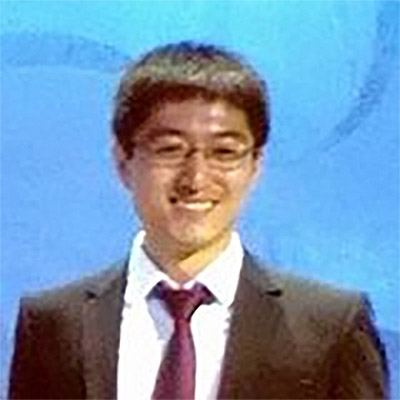
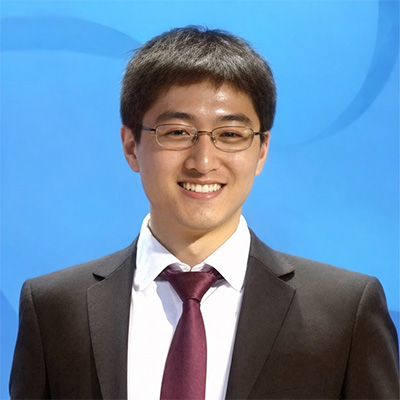
more updates

diff --git a/widgets/materials-block.js b/widgets/materials-block.js
@@ -1,0 +1,177 @@
+// materials-block.js — a slowly rotating block of nanocrystalline silicon
+// (the tricor look from silicon-order.js: toon-outlined atom spheres + translucent
+// tetrahedra). It blooms apart and grows when you hover, then settles back.
+// anywidget entry point. Data comes from nanocrystalline-si.json (data_url option).
+
+let THREE = null;
+const THREE_VERSION = "0.170.0";
+const THREE_MIRRORS = [
+  `https://cdn.jsdelivr.net/npm/three@${THREE_VERSION}/build/three.module.js`,
+  `https://unpkg.com/three@${THREE_VERSION}/build/three.module.js`,
+  `https://esm.sh/three@${THREE_VERSION}/build/three.module.js`,
+];
+async function ensureThree() {
+  if (THREE) return THREE;
+  if (globalThis.__three_module_cache) return (THREE = globalThis.__three_module_cache);
+  const errs = [];
+  for (const url of THREE_MIRRORS) {
+    try {
+      const resp = await fetch(url);
+      if (!resp.ok) throw new Error("HTTP " + resp.status);
+      const src = await resp.text();
+      const blobUrl = URL.createObjectURL(new Blob([src], { type: "application/javascript" }));
+      THREE = await import(blobUrl);
+      globalThis.__three_module_cache = THREE;
+      return THREE;
+    } catch (e) { errs.push(url.split("/")[2] + ": " + e.message); }
+  }
+  throw new Error("Could not load Three.js (" + errs.join("; ") + ")");
+}
+
+function detectDark() {
+  try {
+    const bg = getComputedStyle(document.body).backgroundColor;
+    const m = bg.match(/\d+/g);
+    if (m && m.length >= 3) return (0.299 * +m[0] + 0.587 * +m[1] + 0.114 * +m[2]) / 255 < 0.5;
+  } catch (e) {}
+  return window.matchMedia && window.matchMedia("(prefers-color-scheme: dark)").matches;
+}
+const THEME = {
+  light: { clear: 0xeef0ec, atom: [0.94, 0.78, 0.63], outline: 0x000000, tet: [0.35, 0.45, 0.95], tetOp: 0.4 },
+  dark:  { clear: 0x0c0f14, atom: [0.66, 0.34, 0.30], outline: 0x05070a, tet: [0.55, 0.10, 0.10], tetOp: 0.22 },
+};
+
+function render({ model, el }) {
+  const opt = (k, d) => { try { const v = model.get(k); return v == null ? d : v; } catch (e) { return d; } };
+  const dataUrl = opt("data_url", "https://cdn.jsdelivr.net/gh/ophusgroup/landing@main/widgets/nanocrystalline-si.json");
+  const aspect = opt("aspect", "4 / 3");
+  const id = "mb_" + Math.random().toString(36).slice(2, 7);
+
+  el.innerHTML = `
+    <div class="${id}-stage" style="position:relative; width:100%; aspect-ratio:${aspect};
+        overflow:visible; line-height:0; transition:transform .4s ease; transform-origin:center;">
+      <canvas style="display:block; width:100%; height:100%;"></canvas>
+    </div>`;
+  const stage = el.querySelector(`.${id}-stage`);
+  const canvas = el.querySelector("canvas");
+  let theme = detectDark() ? THEME.dark : THEME.light;
+
+  let hover = false;
+  stage.addEventListener("pointerenter", () => { hover = true; stage.style.transform = "scale(1.1)"; stage.style.zIndex = 3; });
+  stage.addEventListener("pointerleave", () => { hover = false; stage.style.transform = "scale(1)"; });
+
+  Promise.all([ensureThree(), fetch(dataUrl).then((r) => r.json())])
+    .then(([T, data]) => build(T, data))
+    .catch((err) => { stage.innerHTML = `<div style="padding:2em;font:13px sans-serif;opacity:.6">3D viewer failed: ${err.message}</div>`; });
+
+  function build(THREE, data) {
+    const renderer = new THREE.WebGLRenderer({ antialias: true, canvas });
+    renderer.setPixelRatio(Math.min(window.devicePixelRatio || 1, 2));
+    renderer.setClearColor(new THREE.Color(theme.clear), 1);
+
+    const scene = new THREE.Scene();
+    scene.add(new THREE.AmbientLight(0xffffff, 0.9));
+    const d1 = new THREE.DirectionalLight(0xffffff, 0.9); d1.position.set(1.2, 1.5, 1.0); scene.add(d1);
+    const d2 = new THREE.DirectionalLight(0xffffff, 0.25); d2.position.set(-1, -0.5, -1); scene.add(d2);
+
+    const camera = new THREE.PerspectiveCamera(16, 1, 0.1, 8000);
+    const group = new THREE.Group();
+    group.rotation.x = 0.22;
+    scene.add(group);
+
+    const n = data.num_atoms;
+    const base = new Float32Array(data.positions);
+    let maxR = 0;
+    for (let i = 0; i < n; i++) { const d = Math.hypot(base[i*3], base[i*3+1], base[i*3+2]); if (d > maxR) maxR = d; }
+
+    const sphereGeo = new THREE.SphereGeometry(1, 16, 12);
+    const atomMat = new THREE.MeshPhongMaterial({ color: new THREE.Color(theme.atom[0], theme.atom[1], theme.atom[2]), shininess: 28, specular: 0xcccccc, emissive: 0x2a2a2a });
+    const outlineMat = new THREE.MeshBasicMaterial({ color: theme.outline, side: THREE.BackSide });
+    const atomMesh = new THREE.InstancedMesh(sphereGeo, atomMat, n); atomMesh.frustumCulled = false;
+    const outlineMesh = new THREE.InstancedMesh(sphereGeo, outlineMat, n); outlineMesh.frustumCulled = false;
+    const r = data.atom_radius * data.atom_scale, rOut = r + 0.02;
+    const dummy = new THREE.Object3D();
+    function setAtoms(bloom) {
+      const k = 1 + bloom * 0.55; // inflate the lattice outward
+      for (let i = 0; i < n; i++) {
+        dummy.position.set(base[i*3] * k, base[i*3+1] * k, base[i*3+2] * k);
+        dummy.scale.setScalar(r); dummy.updateMatrix(); atomMesh.setMatrixAt(i, dummy.matrix);
+        dummy.scale.setScalar(rOut); dummy.updateMatrix(); outlineMesh.setMatrixAt(i, dummy.matrix);
+      }
+      atomMesh.instanceMatrix.needsUpdate = true; outlineMesh.instanceMatrix.needsUpdate = true;
+    }
+    setAtoms(0);
+    group.add(outlineMesh); group.add(atomMesh);
+
+    // Translucent tetrahedra (fade out as the lattice blooms so the atoms read clearly).
+    let tetMesh = null;
+    const nT = data.num_tetrahedra || 0;
+    if (nT > 0) {
+      const tv = new Float32Array(data.tetrahedra_vertices);
+      const FACES = [[0,1,2],[0,1,3],[0,2,3],[1,2,3]];
+      const facePos = new Float32Array(nT * FACES.length * 9); let fo = 0;
+      for (let t = 0; t < nT; t++) {
+        const b = t * 12;
+        const V = [[tv[b],tv[b+1],tv[b+2]],[tv[b+3],tv[b+4],tv[b+5]],[tv[b+6],tv[b+7],tv[b+8]],[tv[b+9],tv[b+10],tv[b+11]]];
+        for (const [a,bb,c] of FACES) {
+          facePos[fo++]=V[a][0]; facePos[fo++]=V[a][1]; facePos[fo++]=V[a][2];
+          facePos[fo++]=V[bb][0]; facePos[fo++]=V[bb][1]; facePos[fo++]=V[bb][2];
+          facePos[fo++]=V[c][0]; facePos[fo++]=V[c][1]; facePos[fo++]=V[c][2];
+        }
+      }
+      const fgeo = new THREE.BufferGeometry();
+      fgeo.setAttribute("position", new THREE.BufferAttribute(facePos, 3));
+      fgeo.computeVertexNormals();
+      const fmat = new THREE.MeshPhongMaterial({ color: new THREE.Color(theme.tet[0], theme.tet[1], theme.tet[2]), shininess: 20, transparent: true, opacity: theme.tetOp, side: THREE.DoubleSide, depthWrite: false });
+      tetMesh = new THREE.Mesh(fgeo, fmat); group.add(tetMesh);
+    }
+
+    // React to light/dark theme changes: flip the background and the atom/tetra colors.
+    function applyTheme() {
+      theme = detectDark() ? THEME.dark : THEME.light;
+      renderer.setClearColor(new THREE.Color(theme.clear), 1);
+      atomMat.color.setRGB(theme.atom[0], theme.atom[1], theme.atom[2]);
+      outlineMat.color.set(theme.outline);
+      if (tetMesh) tetMesh.material.color.setRGB(theme.tet[0], theme.tet[1], theme.tet[2]);
+    }
+    const themeObs = new MutationObserver(applyTheme);
+    themeObs.observe(document.documentElement, { attributes: true });
+    themeObs.observe(document.body, { attributes: true });
+    const themeMq = window.matchMedia("(prefers-color-scheme: dark)");
+    themeMq.addEventListener("change", applyTheme);
+
+    function resize() {
+      const w = Math.max(1, stage.clientWidth), h = Math.max(1, stage.clientHeight);
+      renderer.setSize(w, h, false); camera.aspect = w / h;
+      const fov = camera.fov * Math.PI / 180;
+      camera.position.set(0, 0, (maxR * 1.15) / Math.tan(fov / 2));
+      camera.updateProjectionMatrix();
+    }
+    resize();
+    const ro = new ResizeObserver(resize); ro.observe(stage);
+
+    let bloom = 0, scale = 1, raf, lastW = 0, lastH = 0;
+    function animate() {
+      raf = requestAnimationFrame(animate);
+      const cw = stage.clientWidth, ch = stage.clientHeight;
+      if (cw > 1 && ch > 1 && (cw !== lastW || ch !== lastH)) { lastW = cw; lastH = ch; resize(); }
+      const tb = hover ? 1 : 0;
+      const nb = bloom + (tb - bloom) * 0.07;
+      if (Math.abs(nb - bloom) > 0.0008) {
+        bloom = nb; setAtoms(bloom);
+        if (tetMesh) tetMesh.material.opacity = theme.tetOp * (1 - bloom);
+      }
+      const ts = hover ? 1.08 : 1.0; scale += (ts - scale) * 0.08; group.scale.setScalar(scale);
+      group.rotation.y += hover ? 0.006 : 0.0035;
+      renderer.render(scene, camera);
+    }
+    animate();
+
+    return () => {
+      cancelAnimationFrame(raf); ro.disconnect(); themeObs.disconnect();
+      themeMq.removeEventListener("change", applyTheme); renderer.dispose();
+    };
+  }
+}
+
+export default { render };

diff --git a/test-materials.html b/test-materials.html
@@ -1,0 +1,39 @@
+<!doctype html>
+<html lang="en">
+<head>
+<meta charset="utf-8">
+<meta name="viewport" content="width=device-width, initial-scale=1">
+<title>materials-block — local test</title>
+<style>
+  body { margin:0; font-family:-apple-system, system-ui, sans-serif; background:#fff; color:#1a1a1a;
+    transition:background .2s, color .2s; }
+  body.dark { background:#0e1116; color:#e8eaed; }
+  .page { max-width:760px; margin:0 auto; padding:28px 20px 90px; }
+  .bar { display:flex; align-items:center; gap:12px; margin-bottom:8px; }
+  .bar h1 { flex:1; font-size:1.25rem; margin:0; }
+  button { padding:6px 12px; border:1px solid currentColor; border-radius:8px; background:transparent;
+    color:inherit; cursor:pointer; font-size:.85rem; opacity:.8; }
+  .hint { opacity:.65; font-size:.85rem; margin:0 0 22px; }
+  .panels { display:grid; grid-template-columns:repeat(auto-fit, minmax(280px, 1fr)); gap:18px; }
+  .panel { border:0.5px solid rgba(127,127,127,.3); border-radius:12px; padding:6px; }
+</style>
+</head>
+<body>
+<div class="page">
+  <div class="bar"><h1>materials-block — nanocrystalline silicon</h1>
+    <button id="theme">Toggle dark</button></div>
+  <p class="hint">Hover a panel: the lattice should bloom apart, grow past its box, and spin a touch faster. Three.js loads from CDN; data is local.</p>
+  <div class="panels">
+    <div class="panel"><div id="m1"></div></div>
+    <div class="panel"><div id="m2"></div></div>
+  </div>
+</div>
+<script type="module">
+  import widget from "./widgets/materials-block.js";
+  const data = { data_url: "/widgets/nanocrystalline-si.json", aspect: "1 / 1" };
+  widget.render({ model: { get: (k) => data[k] }, el: document.getElementById("m1") });
+  widget.render({ model: { get: (k) => data[k] }, el: document.getElementById("m2") });
+  document.getElementById("theme").onclick = () => document.body.classList.toggle("dark");
+</script>
+</body>
+</html>

diff --git a/people.md b/people.md
@@ -261,17 +261,17 @@ description: Current members and alumni of the Colin Ophus Lab at Stanford Unive
 :::{anywidget} https://cdn.jsdelivr.net/gh/ophusgroup/landing@main/widgets/person-card.js
 {
   "name": "Sarah Gao",
-  "image": "https://cdn.jsdelivr.net/gh/ophusgroup/landing@main/images/people/blank_female.png",
+  "image": "https://cdn.jsdelivr.net/gh/ophusgroup/landing@main/images/people/GaoSarah.png",
   "links": [
     {"label": "Email", "url": "mailto:[email redacted]"}
   ],
-  "bio": "Sarah is a summer student in the Colin Ophus Lab."
+  "bio": "Sarah is an undergraduate student at Stanford University, originally from San Diego. She is interested in math, computer science, and materials science. In her free time, she enjoys biking, going to the beach, and cooking."
 }
 :::
 
 ::::::
 
-## Honorary Members
+## Close Collaborators
 
 ::::::{grid} 1 2 3 4
 
@@ -280,7 +280,8 @@ description: Current members and alumni of the Colin Ophus Lab at Stanford Unive
   "name": "Kate Reidy",
   "image": "https://cdn.jsdelivr.net/gh/ophusgroup/landing@main/images/people/ReidyKate.jpg",
   "links": [
-    {"label": "Email", "url": "mailto:[email redacted]"}
+    {"label": "Email", "url": "mailto:[email redacted]"},
+    {"label": "Website", "url": "https://reidygroup.stanford.edu/"}
   ],
   "bio": "Kate is a tenure-track Assistant Professor of Materials Science and Engineering at Stanford, a Gabilan Faculty Fellow, and a faculty affiliate of the Geballe Laboratory of Advanced Materials (GLAM). Her work combines advanced characterization with in situ microscopy to elucidate kinetic growth mechanisms, functional properties, and atomic-scale response to stimuli. She was previously a Miller Postdoctoral Fellow at UC Berkeley, and earned her PhD at MIT and BA at Trinity College Dublin. Her work has been recognized by the Microscopy Society of America, a Materials Research Society Gold Award, and MIT's Best Doctoral Thesis Award."
 }
@@ -320,17 +321,6 @@ description: Current members and alumni of the Colin Ophus Lab at Stanford Unive
 }
 :::
 
-:::{anywidget} https://cdn.jsdelivr.net/gh/ophusgroup/landing@main/widgets/person-card.js
-{
-  "name": "Antony Georgiadis",
-  "image": "https://cdn.jsdelivr.net/gh/ophusgroup/landing@main/images/people/GeorgiadisAntony.jpg",
-  "pronouns": "he/him",
-  "links": [
-    {"label": "Website", "url": "https://dionne.stanford.edu/members/antony-georgiadis/"}
-  ],
-  "bio": "Antony is a PhD student in Materials Science and Engineering in the Jen Dionne Lab at Stanford. He earned his BS and MS in Optics from the Institute of Optics at the University of Rochester. He is interested in optics and photonics, education, and creating novel sensing devices."
-}
-:::
 
 ::::::
 
@@ -367,6 +357,18 @@ description: Current members and alumni of the Colin Ophus Lab at Stanford Unive
 ## Former Group Members
 
 ::::::{grid} 1 2 3 4
+
+:::{anywidget} https://cdn.jsdelivr.net/gh/ophusgroup/landing@main/widgets/person-card.js
+{
+  "name": "Antony Georgiadis",
+  "image": "https://cdn.jsdelivr.net/gh/ophusgroup/landing@main/images/people/GeorgiadisAntony.jpg",
+  "pronouns": "he/him",
+  "links": [
+    {"label": "Website", "url": "https://dionne.stanford.edu/members/antony-georgiadis/"}
+  ],
+  "bio": "Antony is a PhD student in Materials Science and Engineering in the Jen Dionne Lab at Stanford. He earned his BS and MS in Optics from the Institute of Optics at the University of Rochester. He is interested in optics and photonics, education, and creating novel sensing devices."
+}
+:::
 
 :::{anywidget} https://cdn.jsdelivr.net/gh/ophusgroup/landing@main/widgets/person-card.js
 {